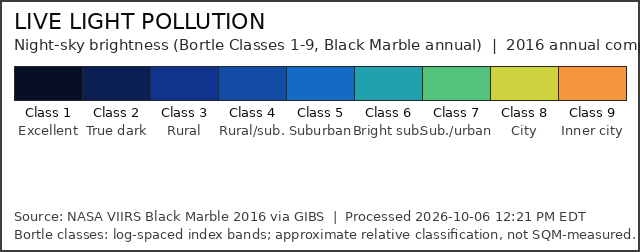
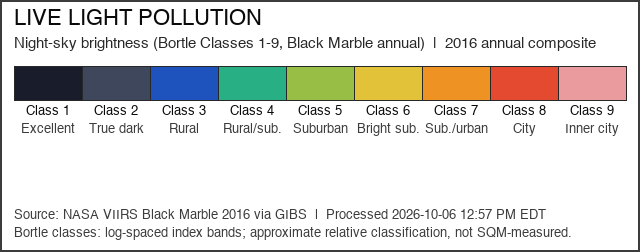
Light pollution: match legend text to Bortle hues, g4 render tag
- SCALE_HTML names each class hue (slate-gray, blue, teal-green, olive, gold, orange, red) to match the new stops.

- Render tag g3 -> g4 so clients reload the re-colored gradient.

Changed region(s): [[0.0312, 0.25, 1.0, 0.5556], [0.0, 0.8056, 1.0, 0.9722], [0.0, 0.0278, 1.0, 0.2222]]

diff --git a/scripts/build_light_pollution.py b/scripts/build_light_pollution.py
@@ -134,12 +134,15 @@ def draw_bortle_key(path, title, subtitle, stops, source_line):
 SCALE_HTML = ("Artificial night-sky brightness on the <b>Bortle dark-sky "
               "scale Classes 1–9</b> (John E. Bortle, Sky & Telescope 2001; "
               "keyed from the NASA VIIRS Black Marble annual composite): "
-              "<b>LOWEST Class 1 Excellent dark-sky site</b> (NELM 7.6–8.0) "
-              "&rarr; Class 2 True dark &rarr; Class 3 Rural "
-              "&rarr; Class 4 Rural/suburban transition &rarr; Class 5 "
-              "Suburban &rarr; Class 6 Bright suburban &rarr; Class 7 "
-              "Suburban/urban transition &rarr; Class 8 City sky &rarr; "
-              "<b>HIGHEST+ Class 9 Inner-city sky</b> (NELM ≤4.0). Class "
+              "<b>LOWEST Class 1 Excellent dark-sky site</b> near-black "
+              "(NELM 7.6–8.0) &rarr; Class 2 True dark slate-gray &rarr; "
+              "Class 3 Rural blue &rarr; Class 4 Rural/suburban teal-green "
+              "&rarr; Class 5 Suburban olive &rarr; Class 6 Bright suburban "
+              "gold &rarr; Class 7 Suburban/urban orange &rarr; Class 8 "
+              "City-sky red &rarr; "
+              "<b>HIGHEST+ Class 9 Inner-city sky</b> near-white "
+              "(NELM ≤4.0). Classes 1–5 use widely separated hues so dark "
+              "skies stay readable. Class "
               "boundaries are log-spaced on the brightness index (3.2 / 7.4 "
               "/ 12.8 / 19.8 / 28.8 / 40.5 / 55.5 / 74.9), shaped like the "
               "published SQM retrofit table — an approximate relative "

diff --git a/scripts/live_field.py b/scripts/live_field.py
@@ -40,7 +40,7 @@ RENDER_TAGS = {
     "visibility": "g3",
     "humidity": "g2",
     "precipitable_water": "g2",
-    "light_pollution": "g3",
+    "light_pollution": "g4",
     "air_quality": "g2",
     "condensation": "g2",
     "fog": "g3",
